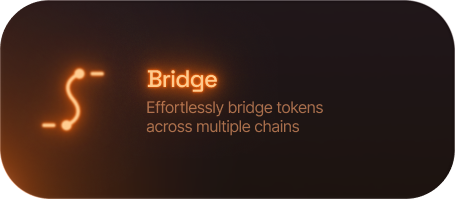
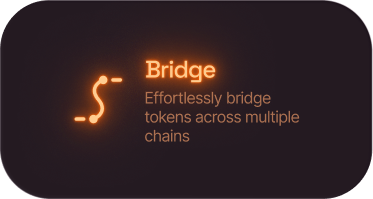
feat: replace toolkit with Figma image cards and fix mobile row layout

diff --git a/index.html b/index.html
@@ -167,92 +167,24 @@
     </section>
 
     <main class="page">
-      <!-- Features -->
-      <section class="features" aria-label="Features">
-        <div class="feature-card">
-          <div class="feature-icon">
-            <img src="/gasless.webp" alt="Gasless transactions" width="364" height="317" loading="lazy" />
-          </div>
-          <h2>Gasless Transactions</h2>
-          <p>Your users never pay gas. Paymaster handles it all, provided by AVNU and Cartridge.</p>
-        </div>
-        <div class="feature-card">
-          <div class="feature-icon feature-icon-duo">
-            <img src="/google.webp" alt="Google login" width="291" height="317" loading="lazy" />
-            <img src="/apple.webp" alt="Apple login" width="344" height="311" loading="lazy" />
-          </div>
-          <h2>Social Login</h2>
-          <p>Google. Apple. Passkeys. No seed phrases ever, thanks to Privy and Cartridge.</p>
-        </div>
-        <div class="feature-card">
-          <div class="feature-icon">
-            <img src="/btc_logo.webp" alt="Bitcoin" width="397" height="400" loading="lazy" />
-          </div>
-          <h2>Bitcoin Staking</h2>
-          <p>Let your users earn yield on BTC, USDC, and STRK. In a few lines of code.</p>
-        </div>
-        <div class="feature-card">
-          <div class="feature-icon">
-            <img src="/mobile.webp" alt="Mobile support" width="454" height="330" loading="lazy" />
-          </div>
-          <h2>Cross-Platform</h2>
-          <p>Available for Web, Android, and iOS. One SDK, every platform.</p>
-        </div>
-      </section>
-
-      <!-- More features — Bento grid -->
+      <!-- Money Toolkit -->
       <section class="more-features">
         <h2 class="section-title">Complete <span class="text-gradient">Money Toolkit</span> for your app in minutes</h2>
         <p class="section-desc">Wallets, bridging, swaps, DCA, lending, and confidential transfers. One SDK, every money primitive your app needs.</p>
 
-        <div class="bento-row bento-row-top">
-          <div class="bento-card">
-            <div class="bento-card-icon">
-              <img src="/icon-swap.png" alt="Swap" loading="lazy" />
-            </div>
-            <div class="bento-card-text">
-              <h3>Swap</h3>
-              <p>Enable users to exchange one token to another effortlessly and easily</p>
-            </div>
-          </div>
-          <div class="bento-card">
-            <div class="bento-card-icon">
-              <img src="/icon-lend.png" alt="Lend & Borrow" loading="lazy" />
-            </div>
-            <div class="bento-card-text">
-              <h3>Lend & Borrow</h3>
-              <p>Enable users to lend and borrow effortlessly</p>
-            </div>
-          </div>
-        </div>
+        <!-- Row 1: Gasless + Social Login + Bitcoin Staking -->
         <div class="bento-row">
-          <div class="bento-card">
-            <div class="bento-card-icon">
-              <img src="/icon-dca.png" alt="DCA" loading="lazy" />
-            </div>
-            <div class="bento-card-text">
-              <h3>DCA</h3>
-              <p>Enable users to invest a fixed, predetermined amount of money at regular intervals.</p>
-            </div>
-          </div>
-          <div class="bento-card">
-            <div class="bento-card-icon">
-              <img src="/icon-bridge.png" alt="Bridge" loading="lazy" />
-            </div>
-            <div class="bento-card-text">
-              <h3>Bridge</h3>
-              <p>Effortlessly bridge tokens across multiple chains</p>
-            </div>
-          </div>
-          <div class="bento-card">
-            <div class="bento-card-icon">
-              <img src="/icon-confidential.png" alt="Confidential Transfers" loading="lazy" />
-            </div>
-            <div class="bento-card-text">
-              <h3>Confidential Transfers</h3>
-              <p>Fund, transfer, and withdraw while preserving privacy.</p>
-            </div>
-          </div>
+          <img src="/row1-features.png" alt="Gasless Transactions, Social Login, Bitcoin Staking" class="bento-row-img" loading="lazy" />
+        </div>
+        <!-- Row 2: Swap + Lend & Borrow -->
+        <div class="bento-row">
+          <img src="/row2-features.png" alt="Swap and Lend & Borrow" class="bento-row-img" loading="lazy" />
+        </div>
+        <!-- Row 3: DCA + Bridge + Confidential -->
+        <div class="bento-row bento-row-bottom">
+          <img src="/card-dca.png" alt="DCA — Enable users to invest a fixed, predetermined amount at regular intervals" class="bento-img" loading="lazy" />
+          <img src="/card-bridge.png" alt="Bridge — Effortlessly bridge tokens across multiple chains" class="bento-img" loading="lazy" />
+          <img src="/card-confidential.png" alt="Confidential Transfers — Fund, transfer, and withdraw while preserving privacy" class="bento-img" loading="lazy" />
         </div>
       </section>
 

diff --git a/src/style.css b/src/style.css
@@ -448,87 +448,6 @@ body {
   100% { transform: translateX(-100%); }
 }
 
-/* ---- Feature cards ---- */
-.features {
-  display: grid;
-  grid-template-columns: repeat(2, 1fr);
-  gap: 1.25rem;
-  padding: 1rem 0 3rem;
-}
-
-.feature-card {
-  position: relative;
-  overflow: hidden;
-  background: rgba(250, 96, 5, 0.03);
-  border: 1px solid rgba(250, 96, 5, 0.12);
-  border-radius: var(--radius);
-  padding: 1.75rem;
-  backdrop-filter: blur(16px);
-  -webkit-backdrop-filter: blur(16px);
-  transition: all 0.3s ease;
-}
-
-.feature-card::before {
-  content: "";
-  position: absolute;
-  inset: 0;
-  background: radial-gradient(circle at 70% 20%, rgba(250, 96, 5, 0.08), transparent 60%);
-  opacity: 0;
-  transition: opacity 0.4s;
-}
-
-.feature-card:hover::before {
-  opacity: 1;
-}
-
-.feature-card:hover {
-  border-color: rgba(250, 96, 5, 0.3);
-  transform: translateY(-3px);
-  box-shadow: 0 8px 32px rgba(0, 0, 0, 0.3), 0 0 40px rgba(250, 96, 5, 0.08);
-}
-
-.feature-icon {
-  width: 64px;
-  height: 64px;
-  margin-bottom: 1rem;
-  position: relative;
-  z-index: 1;
-}
-
-.feature-icon img {
-  width: 100%;
-  height: 100%;
-  object-fit: contain;
-}
-
-.feature-icon-duo {
-  display: flex;
-  width: 100px;
-  gap: 0.25rem;
-}
-
-.feature-icon-duo img {
-  width: 48px;
-  height: 48px;
-}
-
-.feature-card h2 {
-  font-family: var(--font-heading);
-  font-size: 1.1rem;
-  font-weight: 500;
-  color: var(--accent);
-  margin-bottom: 0.5rem;
-  position: relative;
-  z-index: 1;
-}
-
-.feature-card p {
-  font-size: 0.9rem;
-  color: var(--text-2);
-  line-height: 1.5;
-  position: relative;
-  z-index: 1;
-}
 
 /* ---- More Features / Bento ---- */
 .more-features {
@@ -575,56 +494,29 @@ body {
   margin-top: 1.25rem;
 }
 
-.bento-card {
-  flex: 1 1 0;
-  min-width: 0;
-  display: flex;
-  align-items: center;
-  gap: 1rem;
-  padding: 1.5rem;
-  background: rgba(250, 96, 5, 0.03);
-  border: 1px solid rgba(250, 96, 5, 0.15);
+/* Full-width row images (rows 1 & 2) */
+.bento-row-img {
+  width: 100%;
+  height: auto;
   border-radius: 20px;
-  transition: all 0.3s ease;
+  display: block;
 }
 
-.bento-card:hover {
-  border-color: rgba(250, 96, 5, 0.35);
+/* Individual card images (row 3) */
+.bento-img {
+  flex: 1 1 0;
+  min-width: 0;
+  width: 100%;
+  height: auto;
+  border-radius: 20px;
+  display: block;
+  transition: transform 0.3s ease, box-shadow 0.3s ease;
+}
+
+.bento-img:hover {
   transform: translateY(-3px);
   box-shadow: 0 8px 32px rgba(0, 0, 0, 0.4), 0 0 40px rgba(250, 96, 5, 0.08);
 }
-
-.bento-card-icon {
-  flex-shrink: 0;
-  width: 72px;
-  height: 72px;
-}
-
-.bento-card-icon img {
-  width: 100%;
-  height: 100%;
-  object-fit: contain;
-}
-
-.bento-card-text h3 {
-  font-family: var(--font-headline);
-  font-size: 1.2rem;
-  font-weight: 400;
-  font-style: italic;
-  color: var(--accent);
-  margin-bottom: 0.3rem;
-}
-
-.bento-card-text p {
-  font-family: var(--font-body);
-  font-size: 0.85rem;
-  color: var(--text-2);
-  line-height: 1.5;
-}
-
-/* Row 1: Swap is wider */
-.bento-row-top .bento-card:nth-child(1) { flex: 1.4; }
-.bento-row-top .bento-card:nth-child(2) { flex: 1; }
 
 /* ---- Comparison Toggle ---- */
 .comparison {
@@ -1036,25 +928,6 @@ body {
     min-height: 44px;
   }
 
-  /* GitHub hint */
-  .gh-hint-wrap {
-    width: 100%;
-  }
-
-  .gh-hint {
-    font-size: 0.65rem;
-  }
-
-  /* Feature cards */
-  .features {
-    grid-template-columns: 1fr;
-  }
-
-  .feature-icon {
-    width: 48px;
-    height: 48px;
-  }
-
   /* Page container */
   .page {
     padding: 2rem 1rem 3rem;
@@ -1066,25 +939,12 @@ body {
     padding-right: 1rem;
   }
 
-  .bento-row {
-    flex-direction: column;
+  .bento-row-bottom {
+    flex-direction: row;
   }
 
-  .bento-card {
-    padding: 1.25rem;
-  }
-
-  .bento-card-icon {
-    width: 56px;
-    height: 56px;
-  }
-
-  .bento-card-text h3 {
-    font-size: 1.05rem;
-  }
-
-  .bento-card-text p {
-    font-size: 0.8rem;
+  .bento-row-bottom .bento-img {
+    border-radius: 12px;
   }
 
   /* Comparison */
@@ -1124,15 +984,6 @@ body {
 }
 
 @media (min-width: 641px) and (max-width: 900px) {
-  .bento-row {
-    flex-wrap: wrap;
-  }
-
-  .bento-row:not(.bento-row-top) .bento-card {
-    flex: 1 1 calc(50% - 0.75rem);
-    min-width: calc(50% - 0.75rem);
-  }
-
   .more-features {
     padding-left: 1.5rem;
     padding-right: 1.5rem;
@@ -1151,18 +1002,5 @@ body {
 @media (max-width: 380px) {
   .video-hero-title {
     font-size: 1.6rem;
-  }
-
-  .bento-card-icon {
-    width: 44px;
-    height: 44px;
-  }
-
-  .bento-card-text h3 {
-    font-size: 0.95rem;
-  }
-
-  .bento-card-text p {
-    font-size: 0.75rem;
   }
 }
